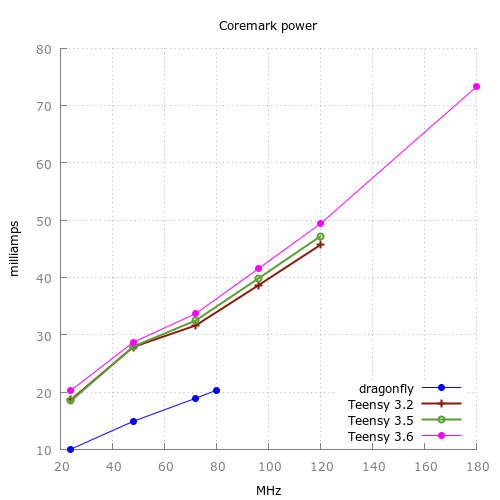
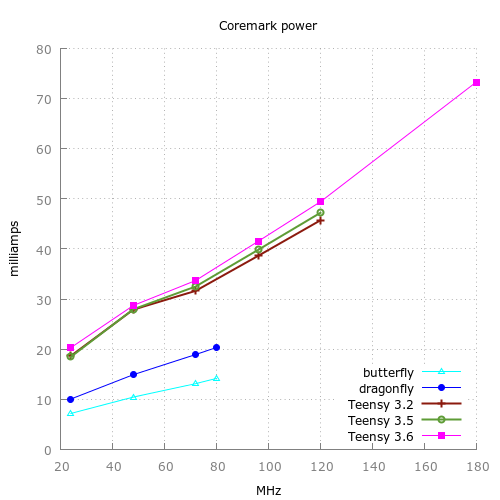
butterfly updates

diff --git a/README.md b/README.md
@@ -1,4 +1,4 @@
-##  80mhz STM32L476RE dragonfly sketches
+##  80mhz STM32L476RE dragonfly sketches, and some butterfly tests
 
 Some simple proof-of-concept sketches (alpha tests).
 
@@ -45,7 +45,8 @@ As this is alpha testing, performance and function will change with time.
 -------reference --------------
 
 https://www.tindie.com/products/onehorse/dragonfly-stm32l4-development-board/
-https://www.tindie.com/products/TleraCorp/dragonfly-stm32l476-development-board/?pt=full_prod_search
+https://www.tindie.com/products/TleraCorp/dragonfly-stm32l476-development-board/?pt=full_prod_search dragonfly
+https://www.tindie.com/products/TleraCorp/butterfly-stm32l433-development-board/ butterfly
 
 https://github.com/kriswiner/Dragonfly/
 
